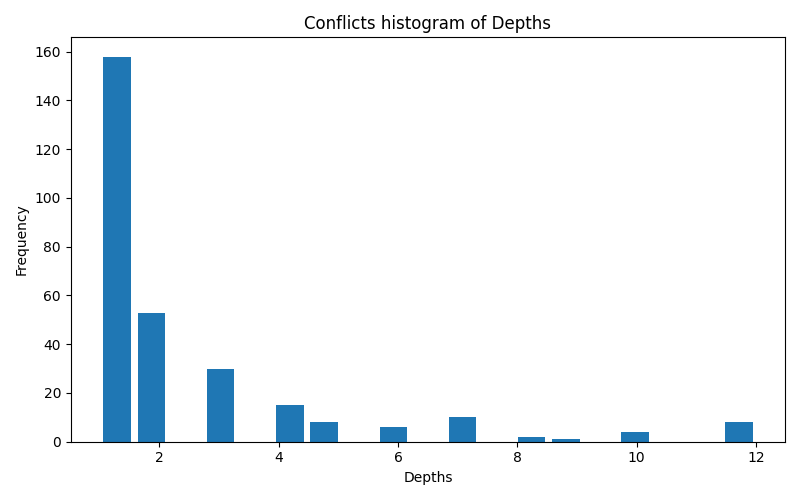
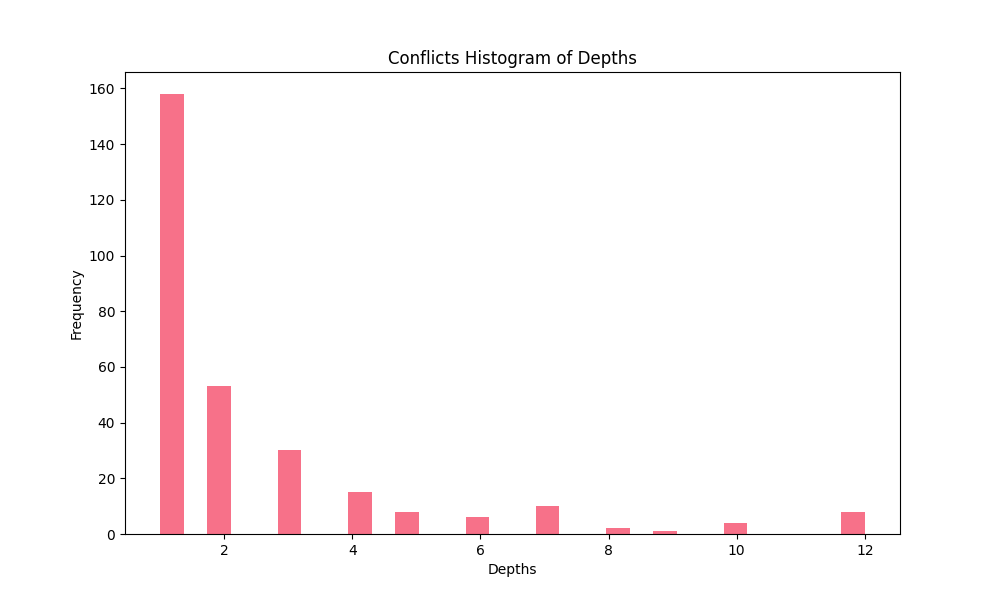
adding pie analysis

diff --git a/oa-analysis/conflictAnalysis/conflictAnalysis.py b/oa-analysis/conflictAnalysis/conflictAnalysis.py
@@ -25,6 +25,31 @@ class ConflictAnalyzer:
         print(f"Conflicts in same class: {same_class_count} ({same_class_count/total_conflicts*100:.2f}%)")
         print(f"Conflicts in same method: {same_method_count} ({same_method_count/total_conflicts*100:.2f}%)")
     
+    def _get_conflict_type_distribution(self, df):
+        col = pd.Series("", index=df.index)
+        same_class_path_one = (df[COL_SAME_CLASS]) & (df[COL_LEFT_LENGTH] == 1) & (df[COL_RIGHT_LENGTH] == 1)
+        same_class_path_larger_than_one = (df[COL_SAME_CLASS]) & (df[COL_LEFT_LENGTH] > 1) & (df[COL_RIGHT_LENGTH] > 1)
+        different_class_path_larger_than_one = (~df[COL_SAME_CLASS]) & (df[COL_LEFT_LENGTH] > 1) & (df[COL_RIGHT_LENGTH] > 1)
+
+        col[same_class_path_one] = "Same class, path size 1"
+        col[same_class_path_larger_than_one] = "Same class, path size larger than 1"
+        col[different_class_path_larger_than_one] = "Different class, path size larger than 1"
+        col[(col == "")] = "Other cases"
+        
+        # Convert to value counts and calculate percentages for pie chart
+        value_counts = col.value_counts()
+        total = len(df)
+        labels = value_counts.index.tolist()
+        values = value_counts.values
+        percentages = [(count/total)*100 for count in values]
+        
+        # Create a dict with all the pie chart data
+        return {
+            'values': values,
+            'labels': labels,
+            'percentages': percentages
+        }
+
     def _create_plots(self, df):
         # Depth and diff distributions
         self.visualizer.plot_histogram(
@@ -33,6 +58,12 @@ class ConflictAnalyzer:
             title='Conflicts Histogram of Depths',
             xlabel='Depths',
             filename=PLOT_DEPTH_HIST
+        )
+
+        self.visualizer.plot_pie_chart(
+            data=self._get_conflict_type_distribution(df),
+            title='Distribution of Conflict Types',
+            filename=PLOT_TYPES_HIST
         )
 
         self.visualizer.plot_histogram(
@@ -65,8 +96,8 @@ class ConflictAnalyzer:
         # Plot conflict depth lines
         self.visualizer.plot_conflict_depth_lines(
             df=df,
-            title='Conflict Depths Distribution',
-            filename='conflicts_depth_lines.png'
+            title='Conflict Depths Behavior',
+            filename=PLOT_DEPTH_LINES
         )
     
 

diff --git a/oa-analysis/visualization.py b/oa-analysis/visualization.py
@@ -14,9 +14,25 @@ class Visualizer:
     def plot_histogram(self, data, bins, title, xlabel, filename):
         plt.figure(figsize=(10, 6))
         plt.hist(data, bins=bins)
-        plt.title(title)
         plt.xlabel(xlabel)
         plt.ylabel('Frequency')
+        plt.title(title)
+        plt.savefig(filename)
+        plt.close()
+
+    def plot_pie_chart(self, data, title, filename):
+        plt.figure(figsize=(10, 6))
+        # Create pie chart with percentages and counts
+        plt.pie(data['values'], labels=[f"{label}\n({int(count)} - {pct:.1f}%)" 
+                for label, count, pct in zip(data['labels'], 
+                                            data['values'], 
+                                            data['percentages'])],
+                autopct='', # We don't need autopct since we include it in labels
+                startangle=140,
+                colors=sns.color_palette("husl", len(data['labels']))
+        )
+        plt.axis('equal')  # Equal aspect ratio ensures that pie is drawn as a circle
+        plt.title(title)
         plt.savefig(filename)
         plt.close()
 

diff --git a/oa-analysis/constants.py b/oa-analysis/constants.py
@@ -18,8 +18,10 @@ COL_NUM_SCENARIOS = 'num_scenarios'
 
 # Plot filenames
 ANALYSIS_DIR = 'analysis/'
-PLOT_DEPTH_HIST = 'conflicts_depth_hist.png'
-PLOT_DIFF_HIST = 'conflicts_diffs_hist.png'
+PLOT_DEPTH_HIST = ANALYSIS_DIR + 'conflicts_depth_hist.png'
+PLOT_DIFF_HIST = ANALYSIS_DIR + 'conflicts_diffs_hist.png'
+PLOT_TYPES_HIST = ANALYSIS_DIR + 'conflicts_types_hist.png'
+PLOT_DEPTH_LINES = ANALYSIS_DIR + 'conflicts_depth_lines.png'
 PLOT_CONFLICTS_PER_SCENARIO = ANALYSIS_DIR + 'conflicts_per_scenario.png'
 PLOT_CONFLICTS_PER_JAR =  ANALYSIS_DIR +'conflicts_per_jar.png'
 PLOT_SCENARIOS_PER_JAR =  ANALYSIS_DIR +'scenarios_per_jar_hist.png'
@@ -34,4 +36,5 @@ PLOT_MIN_DIFF =  ANALYSIS_DIR +'min_diff_per_scenario.png'
 
 # Analysis thresholds and bins
 PERCENTAGE_BUCKETS = [20, 40, 60, 80, 100]
+CONFLICT_TYPES_BINS = 4
 DEFAULT_HIST_BINS = 30
